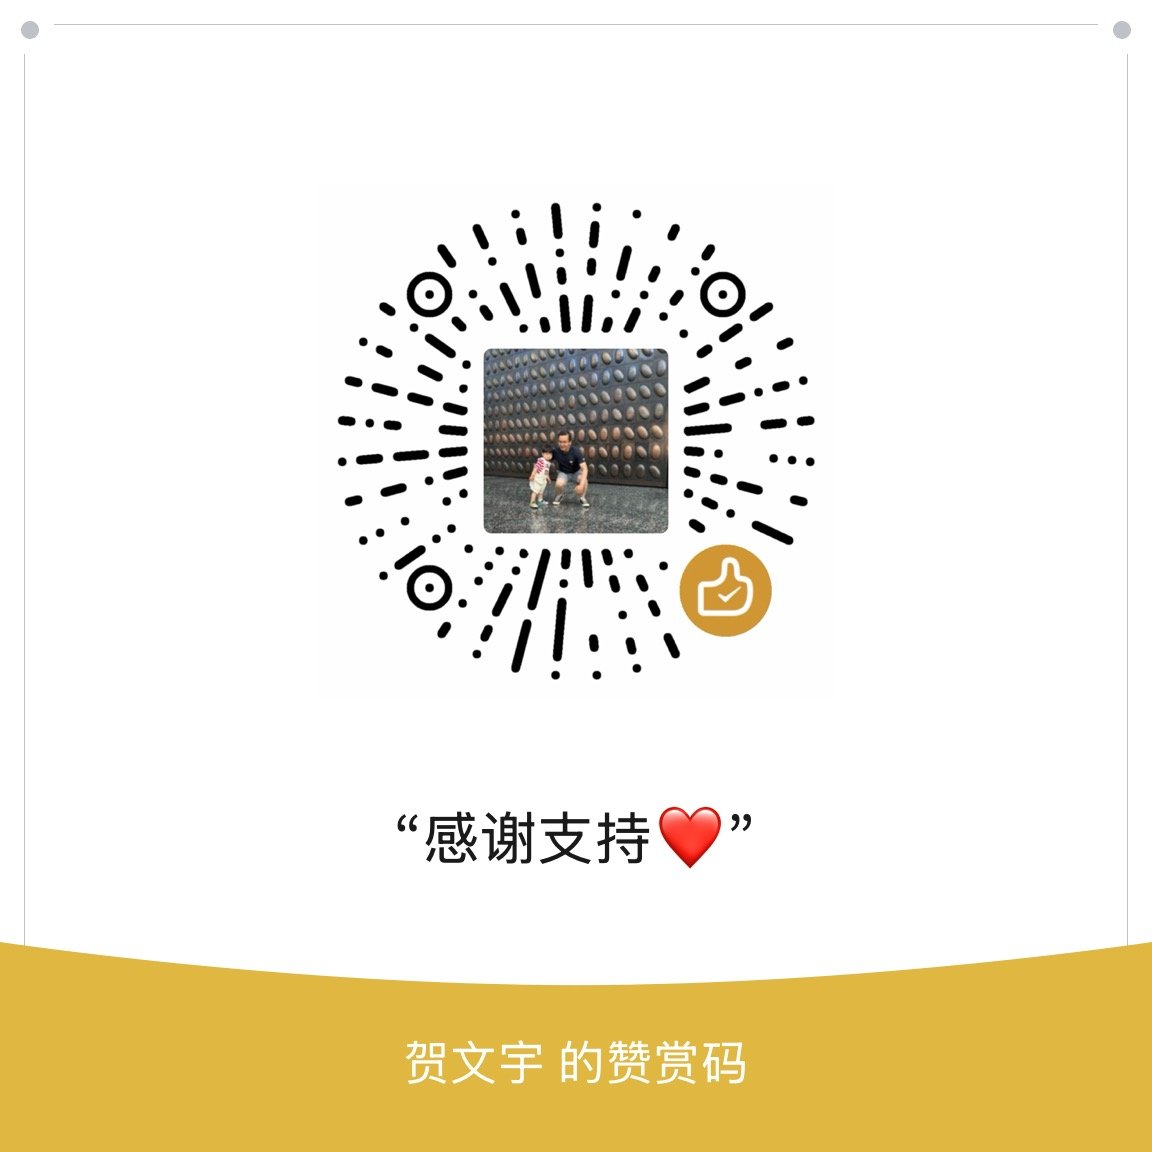
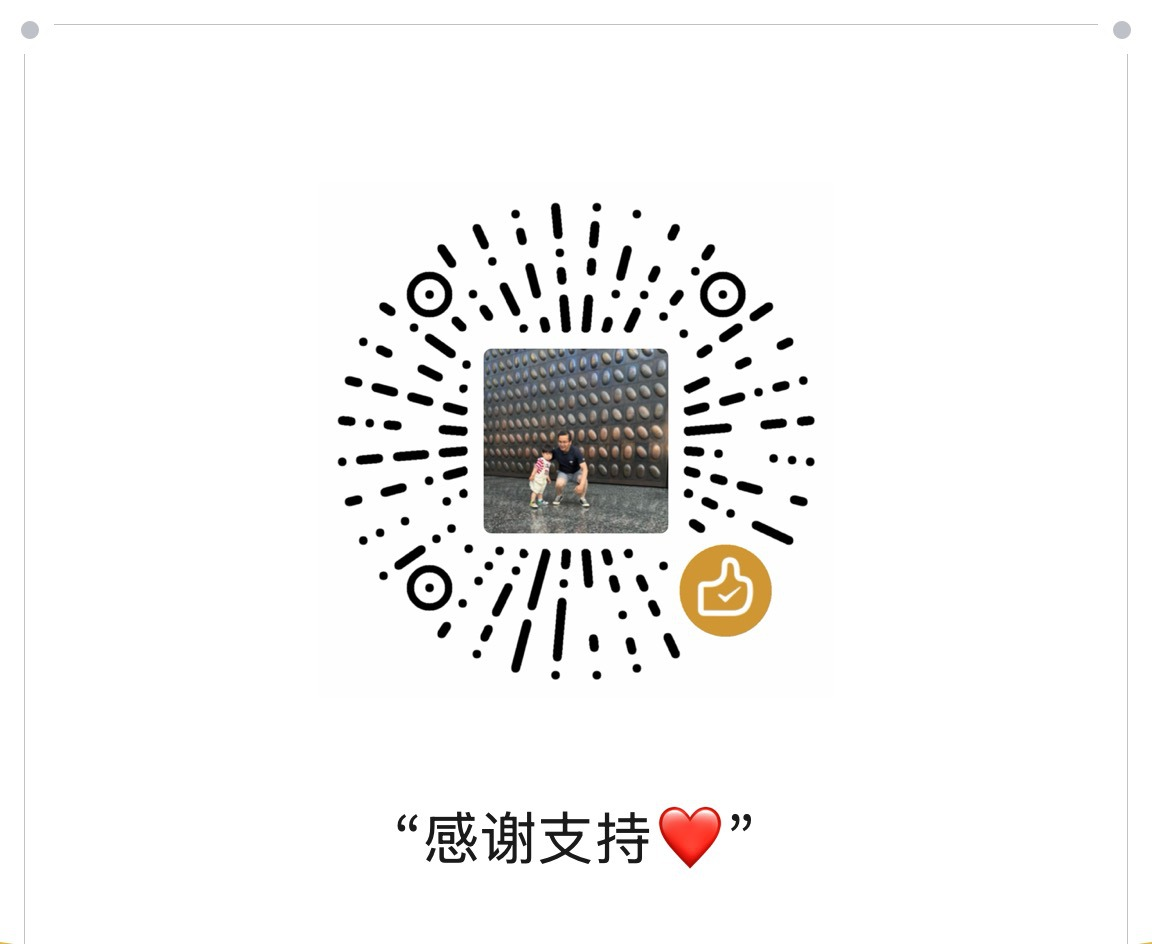
fix: remove loading screen + crop name from reward QR
1. Remove loading screen entirely — it was blocking the iframe
   with an opaque overlay, adding unnecessary wait time. Streamlit
   has its own loading UI. Page now loads as fast as before.
2. Crop yellow bottom bar from wechat-reward.jpg to hide name.

diff --git a/docs/index.html b/docs/index.html
@@ -94,44 +94,9 @@
             white-space: nowrap;
             border: 0;
         }
-        /* Loading screen: above iframe, hidden via onload once iframe is ready */
-        .loading-screen {
-            position: absolute;
-            top: 0; left: 0;
-            width: 100%; height: 100%;
-            z-index: 3;
-            display: flex;
-            flex-direction: column;
-            align-items: center;
-            justify-content: center;
-            background: #f8f9fa;
-            font-family: -apple-system, BlinkMacSystemFont, "Segoe UI", Roboto, sans-serif;
-            transition: opacity 0.3s ease-out;
-        }
-        .loading-screen.hidden {
-            opacity: 0;
-            pointer-events: none;
-        }
-        .loading-logo { font-size: 28px; font-weight: 700; color: #4a90d9; font-style: italic; margin-bottom: 16px; }
-        .loading-spinner {
-            width: 32px; height: 32px;
-            border: 3px solid #e0e0e0;
-            border-top-color: #4a90d9;
-            border-radius: 50%;
-            animation: spin 0.8s linear infinite;
-        }
-        .loading-text { margin-top: 12px; font-size: 13px; color: #aaa; }
-        @keyframes spin { to { transform: rotate(360deg); } }
     </style>
 </head>
 <body>
-    <!-- Loading screen: z-index 3, above iframe. Hidden when Streamlit app sends 'vs-ready' postMessage. -->
-    <div class="loading-screen" id="loading">
-        <div class="loading-logo">ValueScope</div>
-        <div class="loading-spinner"></div>
-        <p class="loading-text">Loading...</p>
-    </div>
-
     <!-- SEO content: in DOM for crawlers, visually hidden from users -->
     <main class="seo-content" aria-hidden="true">
         <h1>ValueScope — AI 智能 DCF 股票估值工具</h1>
@@ -165,22 +130,6 @@
         allow="clipboard-read; clipboard-write"
         loading="eager"
     ></iframe>
-
-    <script>
-    var _hide = function() {
-        document.getElementById('loading').classList.add('hidden');
-    };
-    // Method 1: postMessage from Streamlit app (fastest if it works)
-    window.addEventListener('message', function(e) {
-        if (e.data === 'vs-ready') _hide();
-    });
-    // Method 2: iframe onload + 2s delay (reliable — fires when Streamlit shell loads)
-    document.querySelector('iframe').addEventListener('load', function() {
-        setTimeout(_hide, 2000);
-    });
-    // Method 3: hard timeout as last resort
-    setTimeout(_hide, 15000);
-    </script>
 
     <noscript>
         <p>ValueScope 需要 JavaScript 才能运行。请启用 JavaScript 后刷新页面。</p>
